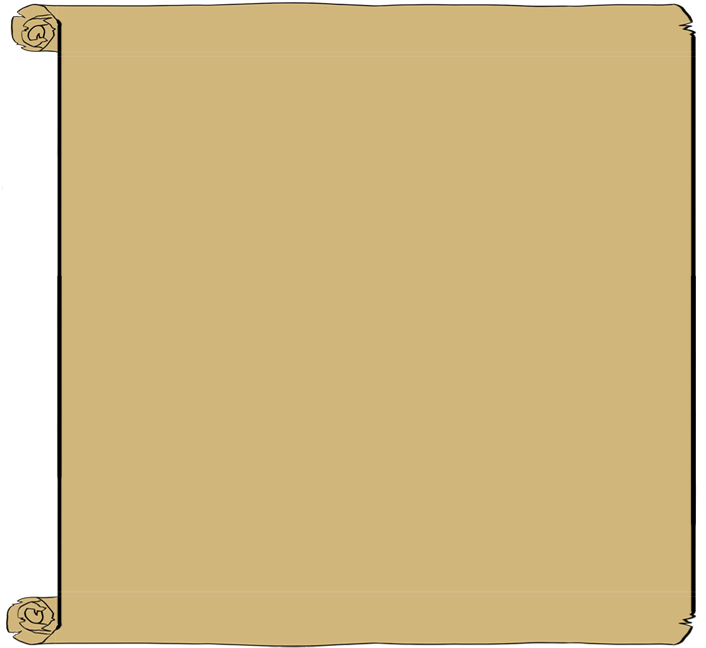
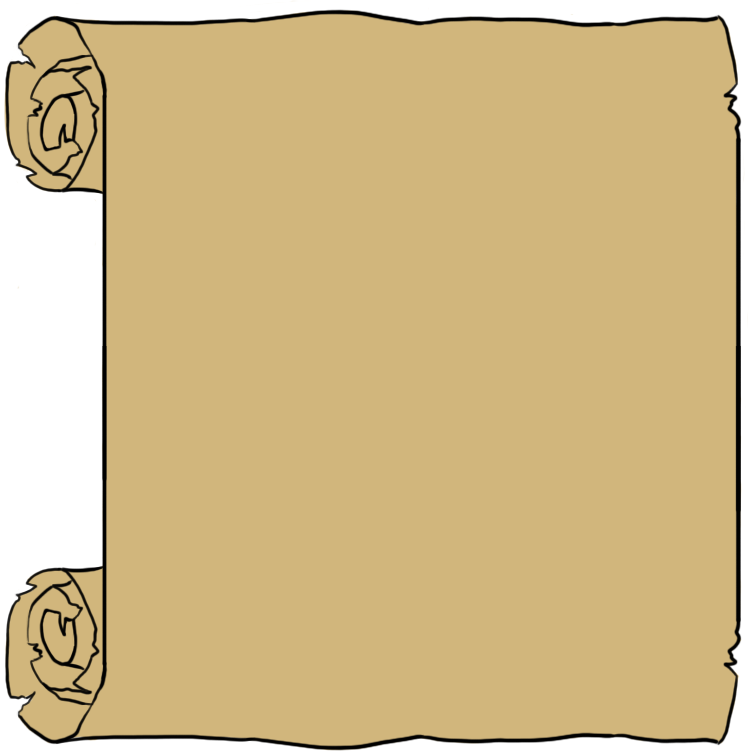
All scrolls use multiple backgrounds within a single div, with before

Changed region(s): [[0.0, 0.0, 0.9972, 1.0]]

diff --git a/present/static/hunt.css b/present/static/hunt.css
@@ -30,113 +30,89 @@ body {
   background-position: center top;
 }
 
-.panel {
-  position: relative;
-  border: 3px #665F4F solid;
-  border-radius: 25px;
-  box-shadow: 0 4px 8px 0 rgba(0, 0, 0, 0.2), 0 6px 20px 0 rgba(0, 0, 0, 0.19);
-}
-
-.scroll-color-background {
-  background-color: rgb(209, 183, 128);
-}
-
-.lighter-background {
-  background-color: papayawhip;
-}
-
-.white-background {
-  background-color: white;
-}
-
-.standard-horizontal-scroll {
-  height: 80px;
-  font-size: 48px;
-  font-family: 'Deutsche Uncialis', 'Georgia', serif;
-}
-
 .small-horizontal-scroll {
   height: 60px;
   font-size: 30px;
   font-family: 'Deutsche Uncialis', 'Georgia', serif;
 }
 
-.horizontal-enscrolled-left {
-  content: url("PNG-export/scroll/horizontal-left.png");
-  height: 100%;
-  display: inline;
-}
-
-.horizontal-enscrolled-middle {
-  background-image: url("PNG-export/scroll/horizontal-middle.png");
-  background-position: center;
-  background-size: auto 100%;
-  height: 100%;
-  display: inline-flex;
-  flex-direction: column;
-  justify-content: center;
-  vertical-align: top;
-}
-
-.horizontal-enscrolled-right {
-  content: url("PNG-export/scroll/horizontal-right.png");
-  height: 100%;
-  display: inline;
-}
-
-.enscrolled-90px {
-  background-image: url("horizontal-scroll-90px-base.png");
-  background-repeat: repeat-x;
-  height: 90px;
-  line-height: 90px;
-  vertical-align: top;
+.standard-horizontal-scroll {
   display: inline-block;
+  height: 80px;
+  line-height: 80px;
+  vertical-align: center;
   font-size: 48px;
   font-family: 'Deutsche Uncialis', 'Georgia', serif;
+  position: relative;
+  background-image: url('PNG-export/scroll/horizontal-left.png'), url('PNG-export/scroll/horizontal-right.png');
+  background-position: left top, right top;
+  background-repeat: no-repeat, no-repeat;
+  background-size: 20px 100%, 20px 100%;
+  padding-left: 10px;
+  padding-right: 10px;
+  z-index: 10;
 }
 
-.enscrolled-90px span {
-  vertical-align: top;
-}
-
-.enscrolled-90px-before {
-  content: url("horizontal-scroll-90px-left.png");
-  width: 29px;
-  height: 90px;
-}
-
-.enscrolled-90px-after {
-  content: url("horizontal-scroll-90px-right.png");
-  width: 29px;
-  height: 90px;
-}
-
-.vertically-enscrolled, .vertically-enscrolled-before, .vertically-enscrolled-after {
-  margin-top: 0px;
-  margin-bottom: 0px;
+.standard-horizontal-scroll::before {
+  content: "";
+  position: absolute;
+  top: 0;
+  left: 20px;
+  width: calc(100% - 39px);
+  height: 100%;
+  background-image: url('PNG-export/scroll/horizontal-middle.png');
+  background-size: 100% 100%;
+  z-index: -1;
 }
 
 .vertically-enscrolled {
-  background-image: url("vertical-scroll-base.png");
-  background-repeat: repeat-y;
   position: relative;
-  width: 280px;
-  z-index: 100;
+  background-image: url('PNG-export/scroll/vertical-scroll-top.png'), url('PNG-export/scroll/vertical-scroll-bottom.png');
+  background-position: left top, left bottom;
+  background-repeat: no-repeat, no-repeat;
+  background-size: 100% 77px, 100% 77px;
+  padding-top: 15px;
+  padding-bottom: 15px;
+  padding-left: 16%;
+  padding-right: 5%;
+  max-width: 751px;
 }
 
-.vertically-enscrolled-before {
-  background-image: url("vertical-scroll-top.png");
-  content: " ";
-  width: 280px;
-  height: 78px;
-  z-index: 100;
+.vertically-enscrolled::before {
+  content: "";
+  position: absolute;
+  top: 77px;
+  left: 0;
+  height: calc(100% - 154px);
+  width: 100%;
+  background-image: url('PNG-export/scroll/vertical-scroll-middle.png');
+  background-size: 100% 100%;
+  z-index: -1;
 }
 
-.vertically-enscrolled-after {
-  content: url("vertical-scroll-bottom.png");
-  width: 280px;
-  height: 84px;
-  z-index: 100;
+.parchmented {
+  position: relative;
+  background-image: url('PNG-export/scroll/parchment-top.png'), url('PNG-export/scroll/parchment-bottom.png');
+  background-position: left top, left bottom;
+  background-repeat: no-repeat, no-repeat;
+  background-size: 100% 137px, 100% 132px;
+  padding-top: 50px;
+  padding-bottom: 50px;
+  padding-left: 9%;
+  padding-right: 5%;
+  max-width: 697px;
+}
+
+.parchmented::before {
+  content: "";
+  position: absolute;
+  top: 137px;
+  left: 0;
+  height: calc(100% - 269px);
+  width: 100%;
+  background-image: url('PNG-export/scroll/parchment-middle.png');
+  background-size: 100% 100%;
+  z-index: -1;
 }
 
 @media screen {

diff --git a/present/templates/rounds/quest_round_layout.html b/present/templates/rounds/quest_round_layout.html
@@ -16,16 +16,17 @@
 
 {% block overall_layout_body %}
 <div id="round-container">
-  <div id="header" class="standard-horizontal-scroll">
-    <div class="horizontal-enscrolled-left"></div><div class="horizontal-enscrolled-middle">
-      <div class="horizontal-enscrolled-text">{% block round_name %}{% endblock %}</div>
-    </div><div class="horizontal-enscrolled-right"></div>
+  <div id="header">
+    <div class="quest-scene-container">
+      <img src="{{ url_for('static', filename='PNG-export/quests/%s-scene.png' % round_id) }}" class="quest-scene">
+    </div>
+    <div class="standard-horizontal-scroll">
+        {% block round_name %}{% endblock %}
+    </div>
   </div>
-  <div id="round-text">
+  <div id="round-information">
     <div class="vertically-enscrolled">
-      <div class="vertically-enscrolled-text">
-        {% block round_flavortext %}{% endblock %}
-      </div>
+      {% block round_flavortext %}{% endblock %}
     </div>
   </div>
   <div id="puzzle-list">
@@ -55,7 +56,7 @@
     </div>
   {% elif puzzle_visibilities.get(puzzle_id).status == 'SOLVED' %}
     <div class="puzzle-entry">
-      <span><img src="{{ url_for('static', filename='temp/art/Maps/complete-logo-color.png') }}" style="width:24px;height:24px;vertical-align:bottom;"/></span>
+      <span><img src="{{ url_for('static', filename='PNG-export/icons/completion-logo.png') }}" style="width:24px;height:24px;vertical-align:bottom;"/></span>
       <a href="{{ url_for(puzzle_link_action, puzzle_id = link_puzzle_id) }}">
         <span class="puzzle-name">{{ puzzle_properties.get(puzzle_id).puzzleProperties.DisplayNameProperty.displayName }}</span>
         <span class="puzzle-solution">

diff --git a/present/static/quest-round.css b/present/static/quest-round.css
@@ -2,34 +2,18 @@ span.round_question {
   font-weight: bold;
 }
 
-#round-text {
+#round-information {
   flex: 1 100px;
 }
 
 #header {
   margin-bottom: 10px;
+  display: flex;
+  flex-flow: row wrap;
+  justify-content: space-around;
+  align-items: center;
 }
 
-#round-background-container {
-  background-repeat: no-repeat;
-}
-
-.vertically-enscrolled {
-  width: 100%;
-  background-image: url('PNG-export/scroll/vertical-scroll.png');
-  background-size: 100% 100%;
-}
-
-.vertically-enscrolled-text {
-  margin-left: 11%;
-  margin-right: 5%;
-  padding-top: 5px;
-  padding-bottom: 5px;
-  width: 84%;
-}
-
-.legible-background {
-#  background: linear-gradient(to right, rgba(255,255,255,0) 0%, rgba(255,255,255,0.9) 5%, rgba(255,255,255,0.9) 95%, rgba(255,255,255,0) 100%);
-  border-radius: 25px;
-  padding: 20px;
+img.quest-scene {
+  max-height: 150px;
 }

diff --git a/present/templates/rounds/character_round_layout.html b/present/templates/rounds/character_round_layout.html
@@ -36,10 +36,10 @@
 
 {% block overall_layout_body %}
 <div id="round-container">
-    <div id="header" class="standard-horizontal-scroll">
-      <div class="horizontal-enscrolled-left"></div><div class="horizontal-enscrolled-middle">
-        <div class="horizontal-enscrolled-text">{% block round_name %}{% endblock %}</div>
-      </div><div class="horizontal-enscrolled-right"></div>
+    <div id="header">
+      <div class="standard-horizontal-scroll">
+        {% block round_name %}{% endblock %}
+      </div>
     </div>
     <div id="character-display">
       <div id="character-level-container">
@@ -52,6 +52,7 @@
     </div>
     <div id="puzzle-list">
       <div class="parchmented">
+        {% block puzzle_content %}{% endblock %}
         {% block round_puzzle_entries %}{% endblock %}
       </div>
     </div>

diff --git a/present/templates/puzzles/puzzle_layout.html b/present/templates/puzzles/puzzle_layout.html
@@ -72,9 +72,7 @@
 {% block overall_layout_body %}
   <div id="puzzle-container">
     <div id="header" class="standard-horizontal-scroll">
-      <div class="horizontal-enscrolled-left"></div><div class="horizontal-enscrolled-middle">
-        <div class="horizontal-enscrolled-text">{% block puzzle_name_block %}{% endblock %}</div>
-      </div><div class="horizontal-enscrolled-right"></div>
+      {% block puzzle_name_block %}{% endblock %}
     </div>
     {% if puzzle_visibility and puzzle_visibility.status == 'SOLVED' %}
       <div id="answers">

diff --git a/present/static/round.css b/present/static/round.css
@@ -22,20 +22,6 @@ span.level-requirement {
   white-space: nowrap;
 }
 
-.parchmented > *:first-child {
-  margin-left: 10%;
-  margin-right: 5%;
-  max-width: 85%;
-  padding-top: 25px;
-  padding-bottom: 25px;
-}
-
-.parchmented {
-  background-image: url('PNG-export/scroll/parchment-square.png');
-  background-size: 100% 100%;
-  max-width: 697px;
-}
-
 .puzzle-entry {
   margin-left: auto;
   margin-right: auto;

diff --git a/present/templates/rounds/thespians.html b/present/templates/rounds/thespians.html
@@ -4,15 +4,6 @@
 
 {% block puzzle_head_block %}
 <style>
-#puzzle-list-column-left {
-  float: left;
-  width: 50%;
-  padding-bottom: 20px;
-}
-#puzzle-list-column-right {
-  margin-left: 50%;
-  padding-bottom: 20px;
-}
 .stage-direction {
   font-size: 20px;
   font-weight: bold;

diff --git a/present/templates/rounds/dungeon.html b/present/templates/rounds/dungeon.html
@@ -5,8 +5,7 @@
 {% block puzzle_head_block %}
 <style>
 #puzzle-list {
-  min-width: 590px;
-  margin-left: 20px;
+  min-width: 650px;
 }
 
 .dungeon-grid-caption {
